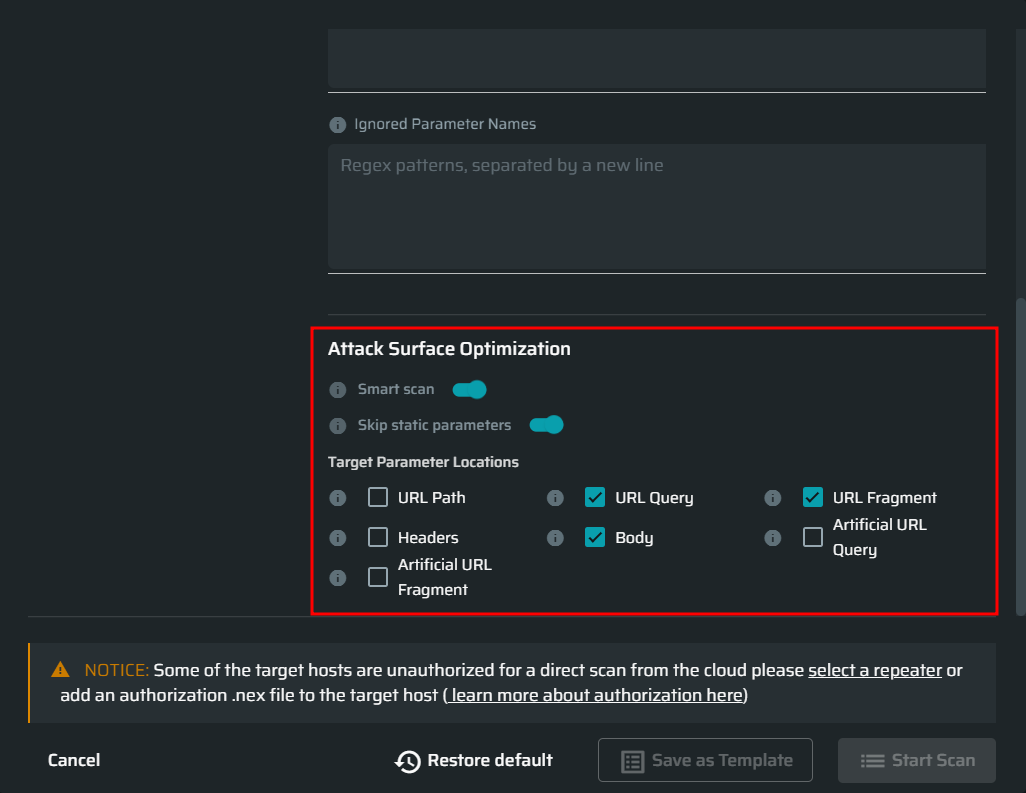
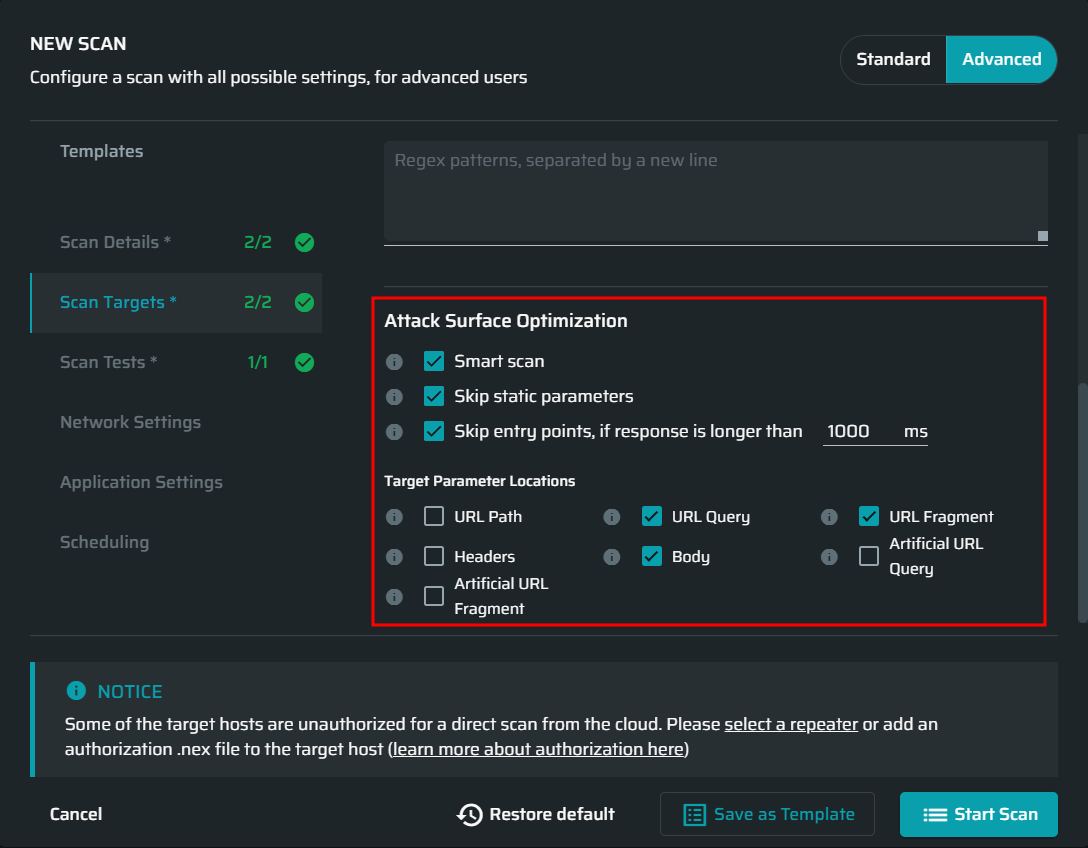
distributed global CLI options

diff --git a/docs/guide/np-cli/commands/uploading-archive.md b/docs/guide/np-cli/commands/uploading-archive.md
@@ -21,32 +21,52 @@ If an archive with that name already exists, the following error message display
 # Options
 
 <table id="simple-table">
-<tr>
-<th width="39%"><strong>Option</strong></th>
-<th><strong>Description</strong></th>
-</tr>
-<tr>
-<td><code>--token=apiKey</code>,<br><code>-t=apiKey</code></td>
-<td>The unique identifier used to authenticate a user. The token (API key) can be issued in your organization's dashboard.</td>
-</tr>
-<tr>
-<td><code>--type=har/openapi/postman</code>,<br> <code>-t=har/openapi/postman</code></td>
-<td>The specification type, which helps determine the best way to parse passed files.<br><br><strong>Default:</strong> <code>--type har</code></td>
-</tr>
-<tr>
-<td><code>--discard</code>,<br> <code>-d</code></td>
-<td>When true, removes an archive from the cloud storage after the scan finishes running.<br><br><strong>Default:</strong> <code>--discard true</code></td>
-</tr>
-<tr>
-<td><code>--header=headerName:headerValue</code>,<br><code>-H=headerName:headerValue</code></td>
-<td>Extra headers to be passed with the OAS/Postman file. Also, it can be used to remove a header by providing a name without content. For example, -H "Host:".<br><br><strong><font color="red">Warning:</font></strong> Headers set with this option override the archive headers and are set in all requests.</td>
-</tr>
-<tr>
-<td><code>--variable=variableName:variableValue</code>,<br><code>-V=variableName:variableValue</code></td>
-<td>Environment variables passed with the Postman file.</td>
-</tr>
-<tr>
-<td><code>--api=clusterUrl</code></td>
-<td><b><i>(Deprecated)</i></b>. Set the API endpoint domain. For VPC, use <code>--api https://private-domain.nexploit.app</code> <br><br><strong>Default:</strong> <code>--api https://nexploit.app</code></td>
-</tr>
+    <tr>
+        <th width="39%"><strong>Option</strong></th>
+        <th><strong>Description</strong></th>
+    </tr>
+    <tr>
+        <td><code>--token=apiKey</code>,<br><code>-t=apiKey</code></td>
+        <td>The unique identifier used to authenticate a user. The token (API key) can be issued in your organization's dashboard.</td>
+    </tr>
+    <tr>
+        <td><code>--type=har/openapi/postman</code>,<br> <code>-t=har/openapi/postman</code></td>
+        <td>The specification type, which helps determine the best way to parse passed files.<br><br><strong>Default:</strong> <code>--type har</code></td>
+    </tr>
+    <tr>
+        <td><code>--discard</code>,<br> <code>-d</code></td>
+        <td>When true, removes an archive from the cloud storage after the scan finishes running.<br><br><strong>Default:</strong> <code>--discard true</code></td>
+    </tr>
+    <tr>
+        <td><code>--header=headerName:headerValue</code>,<br><code>-H=headerName:headerValue</code></td>
+        <td>Extra headers to be passed with the OAS/Postman file. Also, it can be used to remove a header by providing a name without content. For example, -H "Host:".<br><br><strong><font color="red">Warning:</font></strong> Headers set with this option override the archive headers and are set in all requests.</td>
+    </tr>
+    <tr>
+        <td><code>--variable=variableName:variableValue</code>,<br><code>-V=variableName:variableValue</code></td>
+        <td>Environment variables passed with the Postman file.</td>
+    </tr>
+    <tr>
+        <td><code>--config=pathToConfig</code></td>
+        <td>Specifies the path to the configuration file. By default, the CLI tries to discover the config in <code>package.json</code> in the root directory of your application or a separate file by a specified name in the working directory. For details, see <a href="/#/guide/np-cli/configuration-files.md">Configuration Files</a> for more information.</td>
+    </tr>
+    <tr>
+        <td><code>--log-level<br>=0/1/2/3/4/silent/<br>error/warn/notice/verbose</code></td>
+        <td>Allows setting the level of logs to report. Any logs of a higher level than the one specified are shown. The options to select : 0, 1, 2, 3, 4, "silent", "error", "warn", "notice", "verbose".<br><br><strong>Default:</strong> 3</td>
+    </tr>
+    <tr>
+        <td><code>--cluster</code></td>
+        <td>Nexploit cluster (domain name).<br><br><strong>Default:</strong><code>nexploit.app</code></td>
+    </tr>
+    <tr>
+        <td><code>--insecure</code></td>
+        <td>Allows the Nexploit CLI to proceed and operate even if the server connection is considered insecure.</td>
+    </tr>
+    <tr>
+        <td><code>--proxy=socksProxyUrl</code></td>
+        <td>SOCKS URL to proxy all traffic.</code><br><br> <strong><font color="blue">Note:</font></strong> SOCKS4, SOCKS5, SOCKS4a, SOCKS5h are currently supported. By default, if you specify <code>SOCKS://&lt;URL&gt;</code> , then SOCKS5h is applied.</td>
+    </tr>
+    <tr>
+        <td><code>--api=clusterUrl</code></td>
+        <td><b><i>(Deprecated)</i></b>. Set the API endpoint domain. For VPC, use <code>--api https://private-domain.nexploit.app</code> <br><br><strong>Default:</strong> <code>--api https://nexploit.app</code></td>
+    </tr>
 </table>

diff --git a/docs/guide/np-cli/commands/integrating-with-a-service.md b/docs/guide/np-cli/commands/integrating-with-a-service.md
@@ -19,8 +19,9 @@ nexploit-cli integration                  \
 <th><strong>Option</strong></th>
 <th><strong>Description</strong></th>
 </tr>
-<td><code>--bus=eventBusUrl</code></td>
-<td><b><i>(Deprecated)</i></b>. Nexploit event bus URL.<br><br><strong>Default:</strong><code>--bus amqps://amq.nexploit.app:5672</code></td>
+<tr>
+<td><code>--cluster</code></td>
+<td>Nexploit cluster (domain name).<br><br><strong>Default:</strong><code>nexploit.app</code></td>
 </tr>
 <tr>
 <td><code>--access-key=integrationKey</code></td>
@@ -49,5 +50,25 @@ nexploit-cli integration                  \
 <tr>
 <td><code>--daemon</code>,<br> <code>-d</code></td>
 <td>Runs the integration in a daemon mode.</td>
+</tr>
+<tr>
+<td><code>--config=pathToConfig</code></td>
+<td>Specifies the path to the configuration file. By default, the CLI tries to discover the config in <code>package.json</code> in the root directory of your application or a separate file by a specified name in the working directory. For details, see <a href="/#/guide/np-cli/configuration-files.md">Configuration Files</a> for more information.</td>
+</tr>
+<tr>
+<td><code>--log-level<br>=0/1/2/3/4/silent/<br>error/warn/notice/verbose</code></td>
+<td>Allows setting the level of logs to report. Any logs of a higher level than the one specified are shown. The options to select : 0, 1, 2, 3, 4, "silent", "error", "warn", "notice", "verbose".<br><br><strong>Default:</strong> 3</td>
+</tr>
+<tr>
+<td><code>--insecure</code></td>
+<td>Allows the Nexploit CLI to proceed and operate even if the server connection is considered insecure.</td>
+</tr>
+<tr>
+<td><code>--proxy=socksProxyUrl</code></td>
+<td>SOCKS URL to proxy all traffic.</code><br><br> <strong><font color="blue">Note:</font></strong> SOCKS4, SOCKS5, SOCKS4a, SOCKS5h are currently supported. By default, if you specify <code>SOCKS://&lt;URL&gt;</code> , then SOCKS5h is applied.</td>
+</tr>
+<tr>
+<td><code>--bus=eventBusUrl</code></td>
+<td><b><i>(Deprecated)</i></b>. Nexploit event bus URL.<br><br><strong>Default:</strong><code>--bus amqps://amq.nexploit.app:5672</code></td>
 </tr>
 </table>

diff --git a/docs/guide/np-cli/commands/initializing-repeater.md b/docs/guide/np-cli/commands/initializing-repeater.md
@@ -62,6 +62,26 @@ The Repeater requires a working `AUTH_TOKEN` with the scope repeaters:write.
 <td>You can load a certificate file per host. The file must contain a certificate in the PKCS or PEM format. <p> <em>Format:</em> <code>--cert "{"hostname": "example.com", "path": "./example.pem", "passphrase": "pa$$word"}"</code><p> <em>Example:</em> <code>nexploit-cli repeater --cert "{\"path\": \"/home/user/example.pfx\", \"hostname\": \"example.com\", \"passphrase\": \"pa$$word\"}"</code><p> The <code>passphrase</code> is optional.</td>
 </tr>
 <tr>
+<td><code>--config=pathToConfig</code></td>
+<td>Specifies the path to the configuration file. By default, the CLI tries to discover the config in <code>package.json</code> in the root directory of your application or a separate file by a specified name in the working directory. For details, see <a href="/#/guide/np-cli/configuration-files.md">Configuration Files</a> for more information.</td>
+</tr>
+<tr>
+<td><code>--log-level<br>=0/1/2/3/4/silent/<br>error/warn/notice/verbose</code></td>
+<td>Allows setting the level of logs to report. Any logs of a higher level than the one specified are shown. The options to select : 0, 1, 2, 3, 4, "silent", "error", "warn", "notice", "verbose".<br><br><strong>Default:</strong> 3</td>
+</tr>
+<tr>
+<td><code>--cluster</code></td>
+<td>Nexploit cluster (domain name).<br><br><strong>Default:</strong><code>nexploit.app</code></td>
+</tr>
+<tr>
+<td><code>--insecure</code></td>
+<td>Allows the Nexploit CLI to proceed and operate even if the server connection is considered insecure.</td>
+</tr>
+<tr>
+<td><code>--proxy=socksProxyUrl</code></td>
+<td>SOCKS URL to proxy all traffic.</code><br><br> <strong><font color="blue">Note:</font></strong> SOCKS4, SOCKS5, SOCKS4a, SOCKS5h are currently supported. By default, if you specify <code>SOCKS://&lt;URL&gt;</code> , then SOCKS5h is applied.</td>
+</tr>
+<tr>
 <td><code>--bus=eventBusUrl</code></td>
 <td><b><i>(Deprecated)</i></b>. Nexploit event bus URL.<br><br><strong>Default:</strong><code>--bus amqps://amq.nexploit.app:5672</code></td>
 </tr>

diff --git a/docs/guide/np-cli/commands/retesting-scan.md b/docs/guide/np-cli/commands/retesting-scan.md
@@ -26,8 +26,27 @@
         <td>The unique identifier used to authenticate a user. The token (API key) can be issued in your organization’s dashboard.</td>
     </tr>
     <tr>
+        <td><code>--config=pathToConfig</code></td>
+        <td>Specifies the path to the configuration file. By default, the CLI tries to discover the config in <code>package.json</code> in the root directory of your application or a separate file by a specified name in the working directory. For details, see <a href="/#/guide/np-cli/configuration-files.md">Configuration Files</a> for more information.</td>
+    </tr>
+    <tr>
+        <td><code>--log-level<br>=0/1/2/3/4/silent/<br>error/warn/notice/verbose</code></td>
+        <td>Allows setting the level of logs to report. Any logs of a higher level than the one specified are shown. The options to select : 0, 1, 2, 3, 4, "silent", "error", "warn", "notice", "verbose".<br><br><strong>Default:</strong> 3</td>
+    </tr>
+    <tr>
+        <td><code>--cluster</code></td>
+        <td>Nexploit cluster (domain name).<br><br><strong>Default:</strong><code>nexploit.app</code></td>
+    </tr>
+    <tr>
+        <td><code>--insecure</code></td>
+        <td>Allows the Nexploit CLI to proceed and operate even if the server connection is considered insecure.</td>
+    </tr>
+    <tr>
+        <td><code>--proxy=socksProxyUrl</code></td>
+        <td>SOCKS URL to proxy all traffic.</code><br><br> <strong><font color="blue">Note:</font></strong> SOCKS4, SOCKS5, SOCKS4a, SOCKS5h are currently supported. By default, if you specify <code>SOCKS://&lt;URL&gt;</code> , then SOCKS5h is applied.</td>
+    </tr>
         <td><code>--api=clusterUrl</code></td>
         <td><b><i>(Deprecated)</i></b>. Set the API endpoint domain. For VPC, use <code>--api https://private-domain.nexploit.app</code>.<p>
-<b>Default:</b> <code>--api https://nexploit.app</code> </td>
+        <b>Default:</b> <code>--api https://nexploit.app</code> </td>
     </tr>
 </table>

diff --git a/docs/guide/np-cli/commands/running-scan.md b/docs/guide/np-cli/commands/running-scan.md
@@ -62,6 +62,26 @@ This command enables you to specify one or more discovery strategies. For exampl
 <td>Specifies the ID of the authentication object to be connect to the scan. Find more info about using an authentication object at <a href="#/guide/np-web-ui/scanning/managing-authentications/managing-your-authentications">Manging Your Authentications</a>.</td>
 </tr>
 <tr>
+<td><code>--config=pathToConfig</code></td>
+<td>Specifies the path to the configuration file. By default, the CLI tries to discover the config in <code>package.json</code> in the root directory of your application or a separate file by a specified name in the working directory. For details, see <a href="/#/guide/np-cli/configuration-files.md">Configuration Files</a> for more information.</td>
+</tr>
+<tr>
+<td><code>--log-level<br>=0/1/2/3/4/silent/<br>error/warn/notice/verbose</code></td>
+<td>Allows setting the level of logs to report. Any logs of a higher level than the one specified are shown. The options to select : 0, 1, 2, 3, 4, "silent", "error", "warn", "notice", "verbose".<br><br><strong>Default:</strong> 3</td>
+</tr>
+<tr>
+<td><code>--cluster</code></td>
+<td>Nexploit cluster (domain name).<br><br><strong>Default:</strong><code>nexploit.app</code></td>
+</tr>
+<tr>
+<td><code>--insecure</code></td>
+<td>Allows the Nexploit CLI to proceed and operate even if the server connection is considered insecure.</td>
+</tr>
+<tr>
+<td><code>--proxy=socksProxyUrl</code></td>
+<td>SOCKS URL to proxy all traffic.</code><br><br> <strong><font color="blue">Note:</font></strong> SOCKS4, SOCKS5, SOCKS4a, SOCKS5h are currently supported. By default, if you specify <code>SOCKS://&lt;URL&gt;</code> , then SOCKS5h is applied.</td>
+</tr>
+<tr>
 <td><code>--api=clusterUrl</code></td>
 <td><b><i>(Deprecated)</i></b>. Set the API endpoint domain, for VPC, use: <code>--api https://private-domain.nexploit.app</code> <br><br><strong>Default:</strong> <code>--api https://nexploit.app</code></td>
 </tr>

diff --git a/docs/guide/np-cli/commands/stopping-scan.md b/docs/guide/np-cli/commands/stopping-scan.md
@@ -26,6 +26,26 @@
         <td>The unique identifier used to authenticate a user. The token (API key) can be issued in your organization’s dashboard.</td>
     </tr>
     <tr>
+        <td><code>--config=pathToConfig</code></td>
+        <td>Specifies the path to the configuration file. By default, the CLI tries to discover the config in <code>package.json</code> in the root directory of your application or a separate file by a specified name in the working directory. For details, see <a href="/#/guide/np-cli/configuration-files.md">Configuration Files</a> for more information.</td>
+    </tr>
+    <tr>
+        <td><code>--log-level<br>=0/1/2/3/4/silent/<br>error/warn/notice/verbose</code></td>
+        <td>Allows setting the level of logs to report. Any logs of a higher level than the one specified are shown. The options to select : 0, 1, 2, 3, 4, "silent", "error", "warn", "notice", "verbose".<br><br><strong>Default:</strong> 3</td>
+    </tr>
+    <tr>
+        <td><code>--cluster</code></td>
+        <td>Nexploit cluster (domain name).<br><br><strong>Default:</strong><code>nexploit.app</code></td>
+    </tr>
+    <tr>
+        <td><code>--insecure</code></td>
+        <td>Allows the Nexploit CLI to proceed and operate even if the server connection is considered insecure.</td>
+    </tr>
+    <tr>
+        <td><code>--proxy=socksProxyUrl</code></td>
+        <td>SOCKS URL to proxy all traffic.</code><br><br> <strong><font color="blue">Note:</font></strong> SOCKS4, SOCKS5, SOCKS4a, SOCKS5h are currently supported. By default, if you specify <code>SOCKS://&lt;URL&gt;</code> , then SOCKS5h is applied.</td>
+    </tr>
+    <tr>
         <td><code>--api=clusterUrl</code></td>
         <td><b><i>(Deprecated)</i></b>. Set the API endpoint domain. For VPC, use <code>--api https://private-domain.nexploit.app</code>.<p>
 <b>Default:</b> <code>--api https://nexploit.app</code> </td>

diff --git a/docs/guide/np-cli/commands/checking-scan-status.md b/docs/guide/np-cli/commands/checking-scan-status.md
@@ -40,6 +40,26 @@ After a scan launches, it frequently checks the scan status. If the scan finds a
 <td>The maximum time allowed for polling to end normally. For example, 60, 2min, 10h or 7d. A numeric value is interpreted in milliseconds.</td>
 </tr>
 <tr>
+<td><code>--config=pathToConfig</code></td>
+<td>Specifies the path to the configuration file. By default, the CLI tries to discover the config in <code>package.json</code> in the root directory of your application or a separate file by a specified name in the working directory. For details, see <a href="/#/guide/np-cli/configuration-files.md">Configuration Files</a> for more information.</td>
+</tr>
+<tr>
+<td><code>--log-level<br>=0/1/2/3/4/silent/<br>error/warn/notice/verbose</code></td>
+<td>Allows setting the level of logs to report. Any logs of a higher level than the one specified are shown. The options to select : 0, 1, 2, 3, 4, "silent", "error", "warn", "notice", "verbose".<br><br><strong>Default:</strong> 3</td>
+</tr>
+<tr>
+<td><code>--cluster</code></td>
+<td>Nexploit cluster (domain name).<br><br><strong>Default:</strong><code>nexploit.app</code></td>
+</tr>
+<tr>
+<td><code>--insecure</code></td>
+<td>Allows the Nexploit CLI to proceed and operate even if the server connection is considered insecure.</td>
+</tr>
+<tr>
+<td><code>--proxy=socksProxyUrl</code></td>
+<td>SOCKS URL to proxy all traffic.</code><br><br> <strong><font color="blue">Note:</font></strong> SOCKS4, SOCKS5, SOCKS4a, SOCKS5h are currently supported. By default, if you specify <code>SOCKS://&lt;URL&gt;</code> , then SOCKS5h is applied.</td>
+</tr>
+<tr>
 <td><code>--api=clusterUrl</code></td>
 <td><b><i>(Deprecated)</i></b>. Set the API endpoint domain, for VPC, use: <code>--api https://private-domain.nexploit.app</code> <br><br><strong>Default:</strong> <code>--api https://nexploit.app</code></td>
 </tr>

diff --git a/docs/guide/np-web-ui/scanning/advanced-mode.md b/docs/guide/np-web-ui/scanning/advanced-mode.md
@@ -77,6 +77,7 @@ Note that some hosts may be unreachable or unauthorized for a direct scan from t
 
   **Smart scan** – Specify whether to use automatic smart decisions (such as parameter skipping, detection phases and so on) in order to minimize scan time. When this option is turned off, all tests are run on all the parameters, that increases coverage at the expense of scan time.<br>
   **Skip static parameters** – Specify whether to skip static parameters to minimize scan time.<br>
+    **Skip entry points, if response is longer than** – Set the limit to response duration for entry points to minimize scan time. If the specified duration is exceeded, the entrypoint will be skipped. The default value is 1000 ms.<br>
   **Target Parameter Locators** – Specify the URL scope to be scanned, as follows:
    - **URL Path** – The main part of the URL, after the hostname and before the query parameters is used to identify the specific resource in the host that the client wants to access. In some cases (such as API endpoints), it may contain dynamic parameters (for example, object id).
    - **URL Query** – The query parameters string (after the question mark (?) and, if relevant, before the hash sign (#)) is used to provide additional information from the client to the request, such as data to search for in the target resource.

diff --git a/docs/guide/np-cli/commands/generating-archive-with-nexmock.md b/docs/guide/np-cli/commands/generating-archive-with-nexmock.md
@@ -62,5 +62,13 @@ The command above creates four .HAR files that comply with following pattern: ``
 <td><code>--split=numberPieces</code>,<br> <code>-s=numberPieces</code></td>
 <td>The number of the HAR pieces. Enables you to split a NexMock file into multiple HAR files.<br><br><strong>Default:</strong> <code>--split 1</code></td>
 </tr>
+<tr>
+<td><code>--config=pathToConfig</code></td>
+<td>Specifies the path to the configuration file. By default, the CLI tries to discover the config in <code>package.json</code> in the root directory of your application or a separate file by a specified name in the working directory. For details, see <a href="/#/guide/np-cli/configuration-files.md">Configuration Files</a> for more information.</td>
+</tr>
+<tr>
+<td><code>--log-level<br>=0/1/2/3/4/silent/<br>error/warn/notice/verbose</code></td>
+<td>Allows setting the level of logs to report. Any logs of a higher level than the one specified are shown. The options to select : 0, 1, 2, 3, 4, "silent", "error", "warn", "notice", "verbose".<br><br><strong>Default:</strong> 3</td>
+</tr>
 </table>
 
